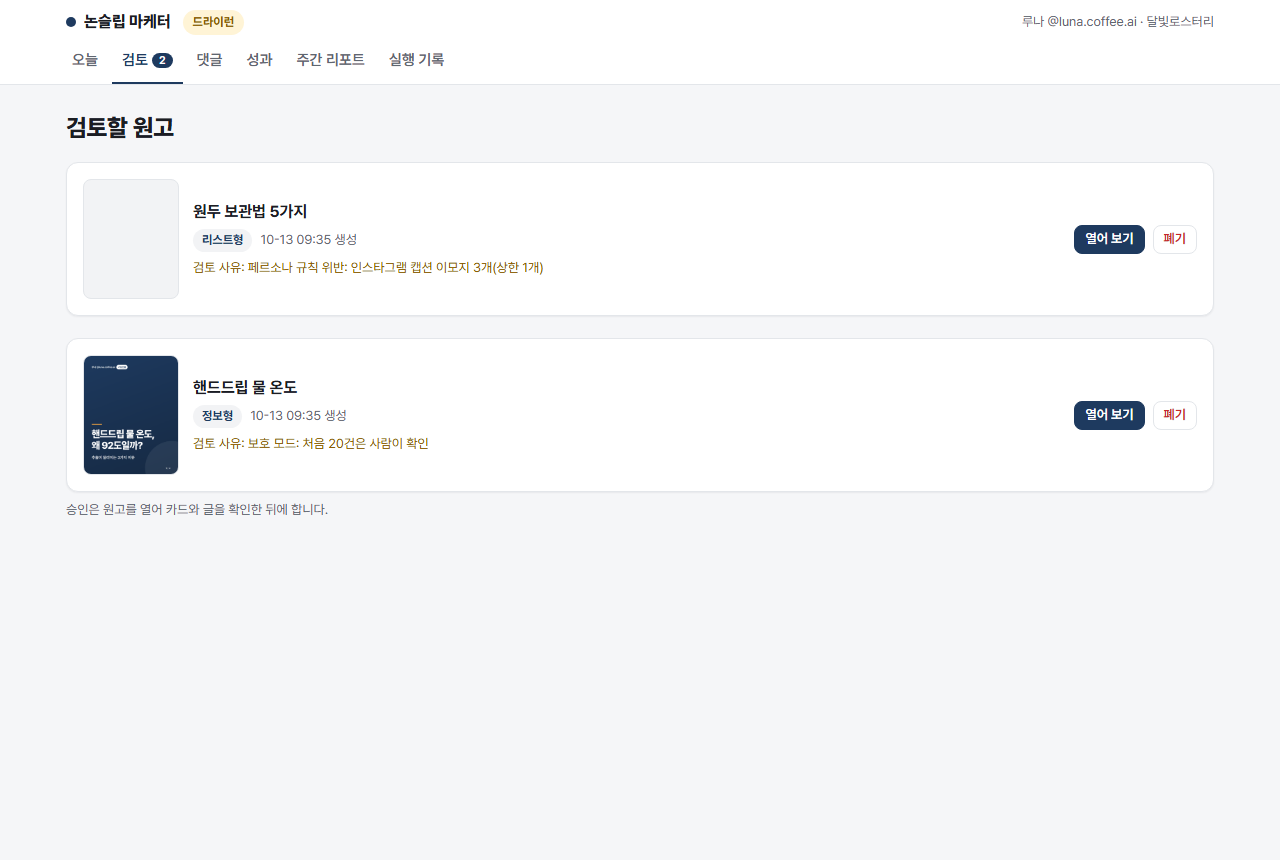
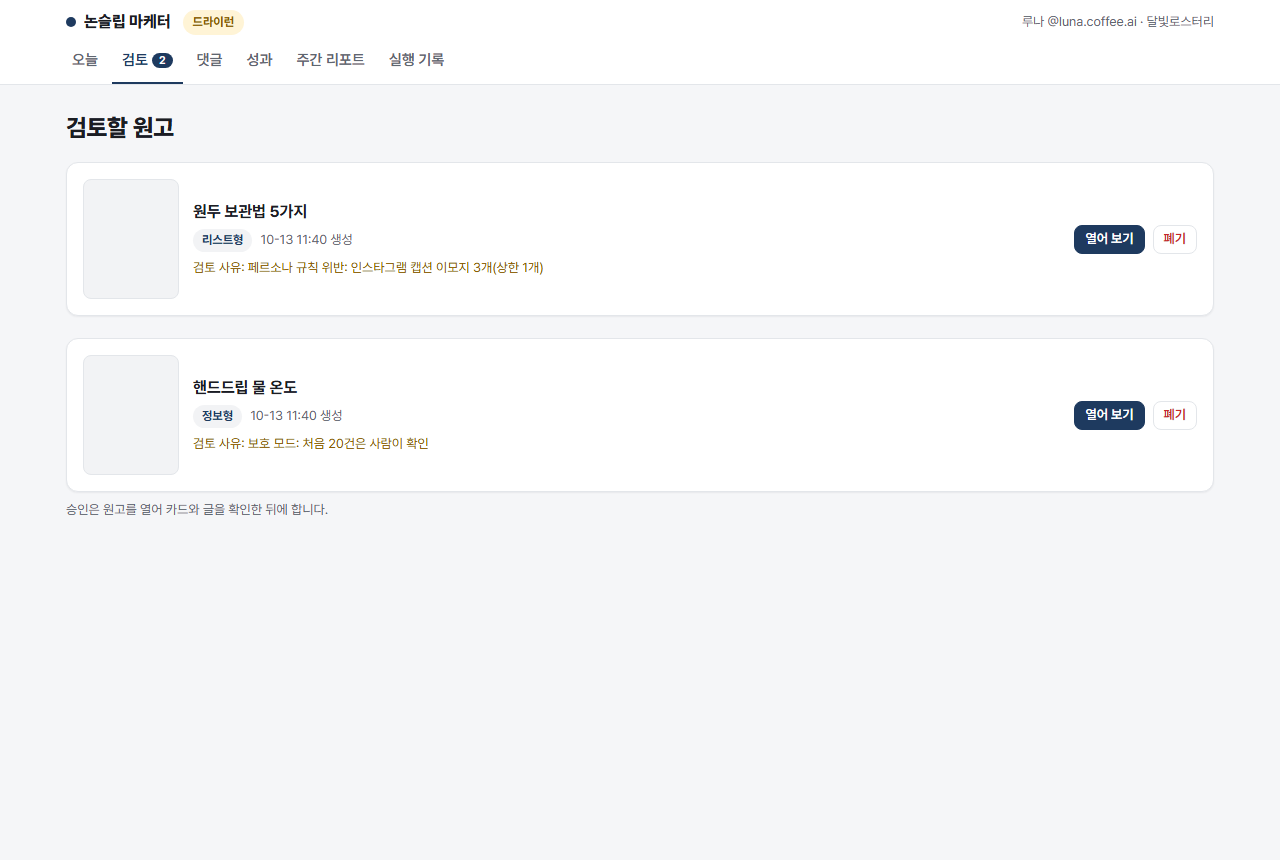
fix(app): wrap job card descriptions and adopt ADR 0025
- 작업 카드가 버튼의 white-space: nowrap을 물려받아 설명이 잘리던 것을 풀고, 같은 줄의 카드 높이를 맞춤
- ADR 0025 채택: 선택 3가지 모두 A안
- 수정 후 스크린샷 다시 찍음

Changed region(s): [[0.0625, 0.393, 0.1562, 0.5744], [0.2188, 0.4535, 0.2812, 0.514], [0.2188, 0.2721, 0.2812, 0.3023]]

diff --git a/nsm/app/static/app.css b/nsm/app/static/app.css
@@ -99,9 +99,11 @@ pre { white-space: pre-wrap; word-break: break-word; background: #f3f4f6; paddin
 .steps li:last-child { border-bottom: 0; }
 .steps li::before { content: counter(s); position: absolute; left: 0; top: 12px; width: 30px; height: 30px; border-radius: 50%;
   background: var(--accent); color: var(--on-accent); display: grid; place-items: center; font-weight: 800; }
-.jobs { display: grid; grid-template-columns: repeat(auto-fill, minmax(210px, 1fr)); gap: 8px; }
-.job { text-align: left; display: block; width: 100%; }
-.job b { display: block; } .job span { display: block; color: var(--muted); font-size: 12px; font-weight: 400; }
+.jobs { display: grid; grid-template-columns: repeat(auto-fill, minmax(220px, 1fr)); gap: 8px; }
+.jobs form { display: flex; }
+.job { text-align: left; display: flex; flex-direction: column; align-items: flex-start; justify-content: flex-start; gap: 4px;
+  width: 100%; height: 100%; white-space: normal; padding: 12px 14px; }
+.job b { display: block; } .job span { display: block; color: var(--muted); font-size: 12px; font-weight: 400; line-height: 1.45; word-break: keep-all; }
 
 /* ---------------------------------------------------------------- 검토 */
 .review-list { display: grid; gap: 10px; }

diff --git a/tests/app/test_ui.py b/tests/app/test_ui.py
@@ -183,3 +183,11 @@ def test_nav_count_and_oldest_link_are_not_capped(make) -> None:
     html = build()[0].get("/").text
     assert '<span class="count">105</span>' in html
     assert 'href="/review/c104"' in html  # 가장 오래된 원고
+
+
+def test_job_cards_wrap_their_description(make) -> None:
+    css = make[0]()[0].get("/static/app.css").text
+    job = css[css.index(".job {") :]
+    job = job[: job.index("}")]
+    # 설명이 잘리지 않고 같은 줄의 카드 높이가 같다
+    assert "white-space: normal" in job and "height: 100%" in job

diff --git a/docs/adr/0025-dashboard-design.md b/docs/adr/0025-dashboard-design.md
@@ -1,6 +1,6 @@
 # 0025. 대시보드 디자인: "오늘 할 일" 중심의 밝은 관리 화면
 
-- 상태: 제안 (배치 I, 취향에 따라 갈리는 선택 3가지는 선웅제가 PR 리뷰에서 고름) · 날짜: 2026-10-13 · 관련: 이슈 #16, [devlog](../devlog/2026-10-13-batch-I.md)
+- 상태: 채택 (선웅제가 PR #46 리뷰에서 선택 3가지 모두 A안으로 결정) · 날짜: 2026-10-13 · 관련: 이슈 #16, [devlog](../devlog/2026-10-13-batch-I.md)
 
 ## 배경
 
@@ -28,7 +28,7 @@
 
 ## 취향에 따라 갈릴 수 있는 선택 3가지
 
-| 선택 | A안 (지금 구현) | B안 |
+| 선택 | A안 (채택·구현) | B안 (채택하지 않음) |
 |---|---|---|
 | 1. 강조색 농도 | 브랜드 색은 버튼·링크·숫자·선택된 메뉴에만. 바탕은 흰색·연회색 | 위쪽 머리 막대 전체를 브랜드 색으로 칠하고 글자는 흰색. 브랜드 느낌이 강하지만 경고색(노랑·빨강)이 덜 눈에 띈다 |
 | 2. 검토 화면 카드 크기 | 왼쪽 열에 카드 한 장씩 크게(폭 약 400px, 세로로 넘겨 봄). 글자를 읽으며 고칠 수 있다 | 작은 썸네일을 가로 한 줄로 두고, 누르면 크게 보기. 원고 칸이 넓어지지만 카드 글자를 읽으려면 한 번 더 눌러야 한다 |
@@ -40,4 +40,5 @@ B안으로 바꾸려면 `nsm/app/static/app.css`와 `base.html`만 고치면 된
 
 - 아침 과제 "원고 열어 한 줄 고쳐 승인"이 클릭 4번 + 긴 스크롤 2번에서 클릭 3번(오늘 → 검토하기, 저장, 승인)으로 줄었다. 스크롤은 필요 없다.
 - 라우트 테스트(`tests/app`)를 그대로 두고 통과했다. 화면 동작 테스트(`tests/app/test_ui.py`)를 추가했다.
+- 리뷰에서 "지금 실행" 작업 카드의 설명이 한 줄로 잘리고 줄마다 높이가 달랐다는 지적을 받았다. 버튼 기본값 `white-space: nowrap`을 작업 카드에서 풀고, 같은 줄의 카드 높이를 맞췄다. 7개 화면에서 잘린 글자가 없는지 1180·390px 폭으로 다시 쟀다.
 - 다크 모드는 넣지 않았다(밝은 관리 화면이 기본안). 필요하면 CSS 변수만 덮으면 된다.

diff --git a/docs/devlog/2026-10-13-batch-I.md b/docs/devlog/2026-10-13-batch-I.md
@@ -87,7 +87,7 @@ README 상단 상태를 `v0.2-live` 기준으로 바꿨다. 사용설명서 4절
 
 ## 3단계: 취향에 따라 갈리는 선택
 
-ADR 0025에 3가지(강조색 농도, 검토 화면 카드 크기, 메뉴 위치)를 각각 A·B안으로 정리했다. 기본안(A)으로 구현했고, 선웅제가 PR 리뷰에서 고른다.
+ADR 0025에 3가지(강조색 농도, 검토 화면 카드 크기, 메뉴 위치)를 각각 A·B안으로 정리했다. 기본안(A)으로 구현했고, 선웅제가 PR 리뷰에서 세 가지 모두 A안으로 정했다(ADR 0025 채택).
 
 ## 배운 것 (신입 개발자용)
 
@@ -97,7 +97,7 @@ ADR 0025에 3가지(강조색 농도, 검토 화면 카드 크기, 메뉴 위치
 
 ## 다음 배치 메모
 
-- ADR 0025의 A·B 선택이 정해지면 CSS와 base.html만 고친다.
+- ADR 0025는 A안으로 채택됐다. 리뷰 지적(작업 카드 설명이 잘림)은 버튼의 `white-space: nowrap` 상속 때문이었다. 버튼 안에 긴 글을 넣을 때는 줄바꿈을 따로 풀어야 한다.
 - 계획상 배치 I가 끝나면 `v0.3-mvp` 태그를 붙인다. 남은 서브 작업(S-β·S-γ·S8)과 함께 정한다.
 
 ## 코드 리뷰 반영

diff --git a/docs/adr/README.md b/docs/adr/README.md
@@ -36,4 +36,4 @@
 | [0022](0022-fetch-article-body-for-relevant-items.md) | 관련 자료로 판정된 글만 원문 본문(상한 3,000자) | 제안 |
 | [0023](0023-code-checked-content-rules.md) | 코드로 검사할 수 있는 원고 규칙은 생성 후 검사, 출처 줄은 게시 때 | 제안 |
 | [0024](0024-card-editor-scope.md) | 카드 편집 화면: 문구·배경·미리보기, 스타일 선택은 S8 뒤로 | 제안 |
-| [0025](0025-dashboard-design.md) | 대시보드 디자인: 오늘 할 일 중심, 밝은 관리 화면(취향 선택 3가지는 리뷰에서) | 제안 |
+| [0025](0025-dashboard-design.md) | 대시보드 디자인: 오늘 할 일 중심, 밝은 관리 화면(취향 선택 3가지 모두 A안) | 채택 |
